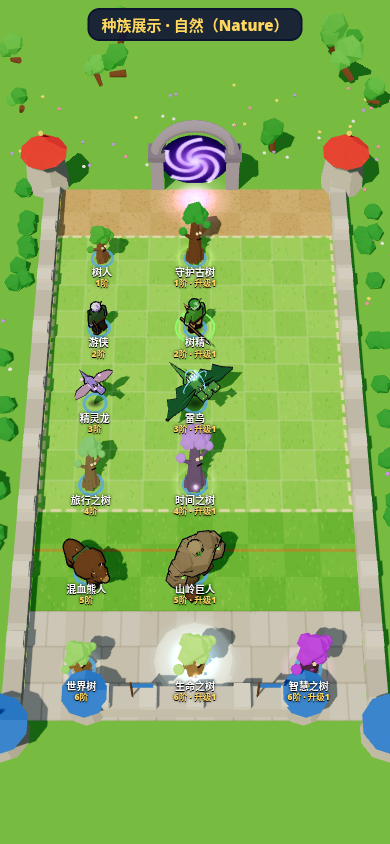
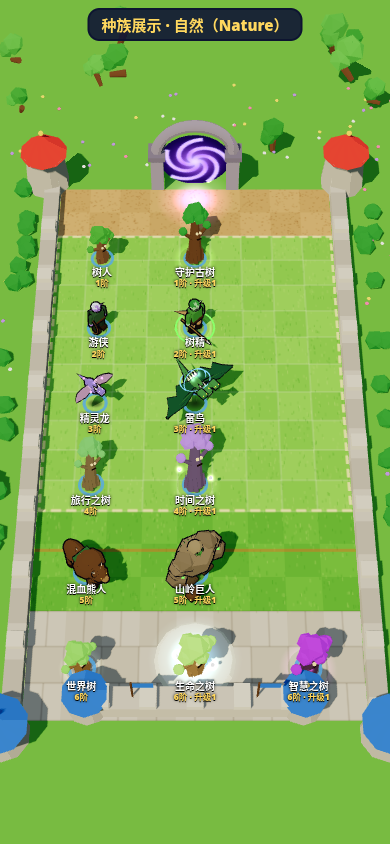
Model remake: Nature (ranger, dryad, faerie dragon, two-headed chimaera, bear druid, mountain giant; trees keep matching procedural models)

diff --git a/index.html b/index.html
@@ -10,9 +10,9 @@
 <link rel="manifest" href="manifest.webmanifest">
 <link rel="icon" type="image/png" href="icons/favicon-32.png">
 <link rel="apple-touch-icon" href="icons/apple-touch-icon.png">
-<link rel="stylesheet" href="style.css?v=11">
-<link rel="stylesheet" href="td.css?v=11">
-<link rel="stylesheet" href="lt.css?v=11">
+<link rel="stylesheet" href="style.css?v=12">
+<link rel="stylesheet" href="td.css?v=12">
+<link rel="stylesheet" href="lt.css?v=12">
 </head>
 <body class="td lt">
 <canvas id="cv"></canvas>
@@ -75,8 +75,8 @@
 </div>
 <div id="showTitle" class="hidden"></div>
 <script src="audio.js?v=1"></script>
-<script src="lt_core.js?v=11"></script>
+<script src="lt_core.js?v=12"></script>
 <script type="importmap">{"imports":{"three":"./lib/three.module.min.js","three/addons/":"./lib/addons/"}}</script>
-<script type="module" src="lt.js?v=11"></script>
+<script type="module" src="lt.js?v=12"></script>
 </body>
 </html>

diff --git a/lt.js b/lt.js
@@ -3,8 +3,8 @@ import * as THREE from 'three';
 import {SPR_UNITS,SPR_K,SPR_V} from './sprdata.js';
 import {MODELS,modelOf} from './models.js';
 import {ABZ as ABZ_} from './abil_zh.js';
-import {initTK,buildTK,animTK} from './toonkit.js?v=11';
-import {TKR} from './toonrecipes.js?v=11';
+import {initTK,buildTK,animTK} from './toonkit.js?v=12';
+import {TKR} from './toonrecipes.js?v=12';
 const LT=window.LT,S=SFX.S,$=id=>document.getElementById(id);
 const Q=location.search;const DEBUG=/[?&]debug/.test(Q);const SHOWCASE=(Q.match(/[?&]showcase=([^&]+)/)||[])[1];
 const W=LT.W,H=LT.H,W2=W/2,H2=H/2;const B=LT.BUILD;

diff --git a/data/model_audit.md b/data/model_audit.md
@@ -25,7 +25,7 @@
 | Mech 机械 | 13 | 2.31 | 7 | 13 |
 | Beast 野兽 | 12 | 1.42 | 1 | 12 |
 | Shadow 暗影 | 14 | 1.43 | 2 | 10 |
-| Nature 自然 | 13 | 1.31 | 1 | 0 |
+| Nature 自然 | 13 | 1.31 | 1 | 6 |
 | Element 元素 | 12 | 1.58 | 2 | 12 |
 | Ghost 幽魂 | 14 | 1.93 | 1 | 14 |
 | Demi-Human 亚人 | 13 | 1.69 | 1 | 13 |
@@ -224,14 +224,14 @@
 |---|---|---|---|---|---|
 | h01C | Ent 树人 | Ent | 程序化 tree | ✅ 基本相符 | 保留，后续统一换 ToonKit 时顺带做 |
 | h01D | Guardian 守护古树 | AncientProtector | 程序化 ancient | ✅ 基本相符 | 保留，后续统一换 ToonKit 时顺带做 |
-| h01E | Ranger 游侠 | Archer | 精灵 woodElf | ✅ 基本相符 | 保留，后续统一换 ToonKit 时顺带做 |
-| h01F | Meliai 树精 | Dryad | 精灵 woodElf | ⚠ 部分不符 | ToonKit 程序化重做（按 WC3 轮廓/配色） |
-| h01H | Sprite 精灵龙 | FaerieDragon | 精灵 serpentFly | ⚠ 部分不符 | ToonKit 程序化重做（按 WC3 轮廓/配色） |
-| h01G | Thunderbird 雷鸟 | Chimaera | 精灵 griffin | ❌ 严重不符 | ToonKit 程序化重做（按 WC3 轮廓/配色） |
+| h01E | Ranger 游侠 | Archer | 精灵 woodElf | ✅ 基本相符 | **已重做**：ToonKit 程序化卡通模型（humanoid） |
+| h01F | Meliai 树精 | Dryad | 精灵 woodElf | ⚠ 部分不符 | **已重做**：ToonKit 程序化卡通模型（humanoid） |
+| h01H | Sprite 精灵龙 | FaerieDragon | 精灵 serpentFly | ⚠ 部分不符 | **已重做**：ToonKit 程序化卡通模型（flyer） |
+| h01G | Thunderbird 雷鸟 | Chimaera | 精灵 griffin | ❌ 严重不符 | **已重做**：ToonKit 程序化卡通模型（flyer） |
 | h01I | Tree of Travel 旅行之树 | AncientOfLore | 程序化 ancient | ✅ 基本相符 | 保留，后续统一换 ToonKit 时顺带做 |
 | h01J | Tree of Time 时间之树 | AncientOfWonder | 程序化 ancient | ✅ 基本相符 | 保留，后续统一换 ToonKit 时顺带做 |
-| h01K | Halfbreed 混血熊人 | DruidoftheClaw | 精灵 behemoth | ✅ 基本相符 | 保留，后续统一换 ToonKit 时顺带做 |
-| h01L | Goliath 山岭巨人 | MountainGiant | 精灵 giant | ✅ 基本相符 | 保留，后续统一换 ToonKit 时顺带做 |
+| h01K | Halfbreed 混血熊人 | DruidoftheClaw | 精灵 behemoth | ✅ 基本相符 | **已重做**：ToonKit 程序化卡通模型（quad） |
+| h01L | Goliath 山岭巨人 | MountainGiant | 精灵 giant | ✅ 基本相符 | **已重做**：ToonKit 程序化卡通模型（humanoid） |
 | h01M | Yggdrasil 世界树 | TreeofLife | 程序化 tree | ✅ 基本相符 | 保留，后续统一换 ToonKit 时顺带做 |
 | h01N | Tree of Life 生命之树 | TreeofLife | 程序化 tree | ✅ 基本相符 | 保留，后续统一换 ToonKit 时顺带做 |
 | h01O | Tree of Knowledge 智慧之树 | CorruptedTreeofLife | 程序化 tree | ✅ 基本相符 | 保留，后续统一换 ToonKit 时顺带做 |
